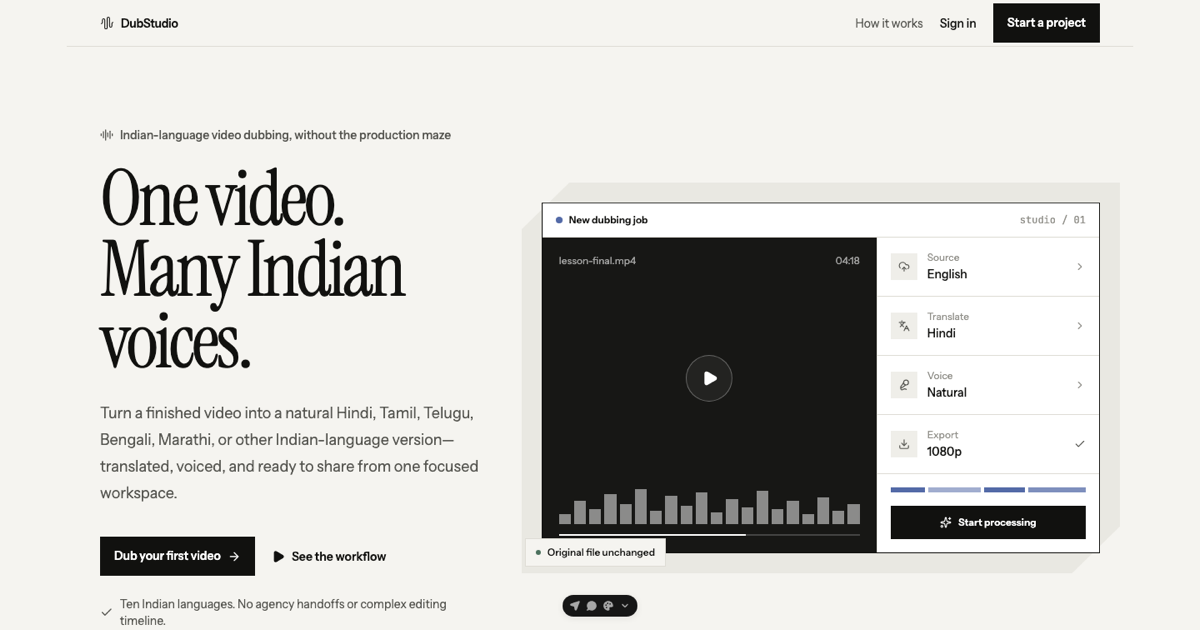
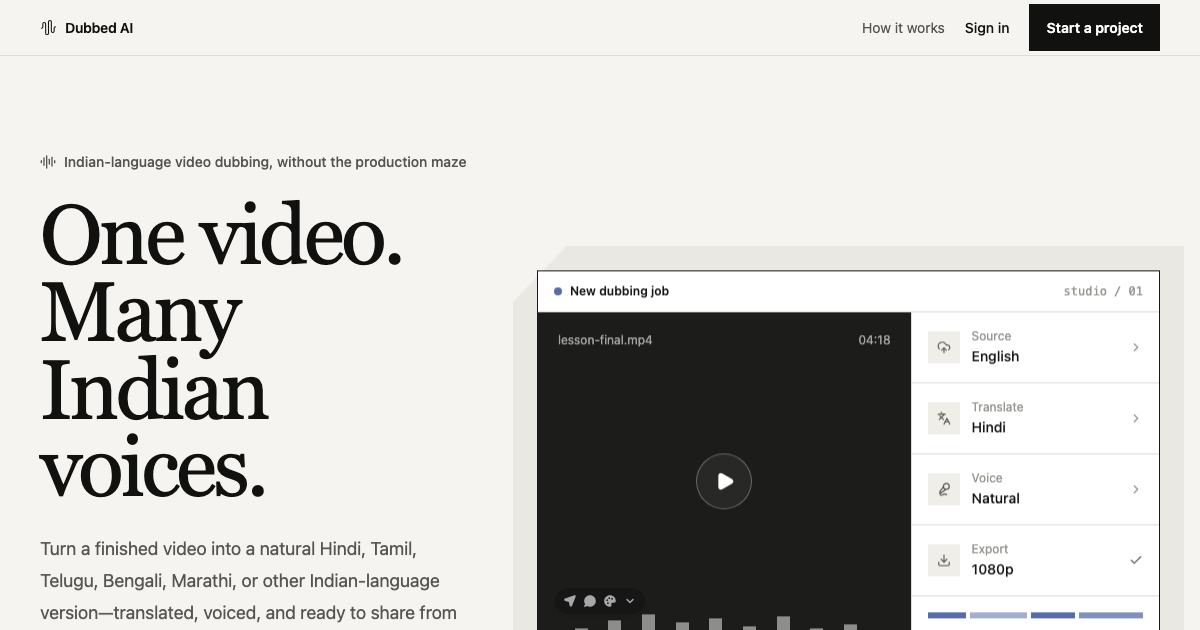
Rename application to Dubbed AI

diff --git a/frontend/src/pages/landing-page.tsx b/frontend/src/pages/landing-page.tsx
@@ -15,6 +15,7 @@ import {
   Users,
 } from "lucide-react";
 import { Link } from "react-router-dom";
+import { APP_NAME } from "@/lib/brand";
 
 const stages = [
   { label: "Source", value: "English", icon: UploadCloud },
@@ -72,12 +73,12 @@ export function LandingPage() {
               <p className="text-sm font-medium text-(--color-accent)">From upload to Indian audiences</p>
               <h2 className="mt-4 max-w-md font-serif text-4xl leading-[1.02] tracking-[-0.03em] sm:text-5xl">Keep the edit. Speak their language.</h2>
             </div>
-            <p className="mt-10 max-w-sm leading-7 text-(--color-text-dim)">DubStudio keeps the workflow linear, so you can prepare an Indian-language version without learning a professional editing suite.</p>
+            <p className="mt-10 max-w-sm leading-7 text-(--color-text-dim)">{APP_NAME} keeps the workflow linear, so you can prepare an Indian-language version without learning a professional editing suite.</p>
           </div>
 
           <ol className="divide-y divide-(--color-border)">
             <ProcessRow number="01" title="Bring the finished cut" copy="Upload the video you already publish. Your original stays untouched." icon={Film} />
-            <ProcessRow number="02" title="Choose an Indian language" copy="Select the source and target languages; DubStudio prepares the translation and voice." icon={Languages} />
+            <ProcessRow number="02" title="Choose an Indian language" copy={`Select the source and target languages; ${APP_NAME} prepares the translation and voice.`} icon={Languages} />
             <ProcessRow number="03" title="Leave with a shareable version" copy="Track processing in the workspace, then download the completed video." icon={Download} />
           </ol>
         </div>
@@ -160,5 +161,5 @@ function AudienceRow({ title, copy, icon: Icon }: { title: string; copy: string;
 }
 
 export function Brand() {
-  return <Link className="flex items-center gap-2 text-(--color-text)" to="/"><span className="brand-mark"><AudioWaveform /></span><span className="text-sm font-semibold tracking-[-0.02em]">DubStudio</span></Link>;
+  return <Link className="flex items-center gap-2 text-(--color-text)" to="/"><span className="brand-mark"><AudioWaveform /></span><span className="text-sm font-semibold tracking-[-0.02em]">{APP_NAME}</span></Link>;
 }

diff --git a/frontend/index.html b/frontend/index.html
@@ -4,15 +4,15 @@
     <meta charset="UTF-8" />
     <link rel="icon" type="image/svg+xml" href="/favicon.svg" />
     <meta name="viewport" content="width=device-width, initial-scale=1.0" />
-    <title>DubStudio — Indian-language video dubbing</title>
+    <title>Dubbed AI — Indian-language video dubbing</title>
     <meta
       name="description"
       content="Turn one finished video into natural Indian-language versions—translated, voiced, and ready to share."
     />
 
     <meta property="og:type" content="website" />
-    <meta property="og:site_name" content="DubStudio" />
-    <meta property="og:title" content="DubStudio — One video. Many Indian voices." />
+    <meta property="og:site_name" content="Dubbed AI" />
+    <meta property="og:title" content="Dubbed AI — One video. Many Indian voices." />
     <meta
       property="og:description"
       content="Turn one finished video into natural Indian-language versions—translated, voiced, and ready to share."
@@ -21,16 +21,16 @@
     <meta property="og:image:type" content="image/png" />
     <meta property="og:image:width" content="1200" />
     <meta property="og:image:height" content="630" />
-    <meta property="og:image:alt" content="DubStudio landing page hero showing its Indian-language video dubbing workflow." />
+    <meta property="og:image:alt" content="Dubbed AI landing page hero showing its Indian-language video dubbing workflow." />
 
     <meta name="twitter:card" content="summary_large_image" />
-    <meta name="twitter:title" content="DubStudio — One video. Many Indian voices." />
+    <meta name="twitter:title" content="Dubbed AI — One video. Many Indian voices." />
     <meta
       name="twitter:description"
       content="Turn one finished video into natural Indian-language versions—translated, voiced, and ready to share."
     />
     <meta name="twitter:image" content="/og-image.png" />
-    <meta name="twitter:image:alt" content="DubStudio landing page hero showing its Indian-language video dubbing workflow." />
+    <meta name="twitter:image:alt" content="Dubbed AI landing page hero showing its Indian-language video dubbing workflow." />
   </head>
   <body>
     <div id="root"></div>

diff --git a/frontend/src/pages/workspace-page.tsx b/frontend/src/pages/workspace-page.tsx
@@ -5,6 +5,7 @@ import { useNavigate } from "react-router-dom";
 import { DubbingForm } from "@/features/dubbing/dubbing-form";
 import { DubbingJobsTable } from "@/features/dubbing/dubbing-jobs-table";
 import { authClient } from "@/lib/auth-client";
+import { APP_NAME } from "@/lib/brand";
 import { Brand } from "./landing-page";
 
 export function WorkspacePage() {
@@ -53,7 +54,7 @@ export function WorkspacePage() {
           <div className="max-w-2xl">
             <p className="text-sm font-medium text-(--color-accent)">Localization studio</p>
             <h1 className="mt-3 font-serif text-4xl leading-[0.98] tracking-[-0.035em] text-balance sm:text-5xl">Prepare your next language version.</h1>
-            <p className="mt-5 max-w-xl leading-7 text-(--color-text-dim)">Bring a finished cut. DubStudio translates, voices, and prepares a shareable version while your original stays untouched.</p>
+            <p className="mt-5 max-w-xl leading-7 text-(--color-text-dim)">Bring a finished cut. {APP_NAME} translates, voices, and prepares a shareable version while your original stays untouched.</p>
           </div>
           <ol className="grid grid-cols-3 divide-x divide-(--color-border) border-y border-(--color-border) py-3">
             <WorkspaceStep number="1" label="Upload" /><WorkspaceStep number="2" label="Choose" /><WorkspaceStep number="3" label="Download" />

diff --git a/frontend/src/router/route-gates.tsx b/frontend/src/router/route-gates.tsx
@@ -2,6 +2,7 @@ import { LoaderCircle } from 'lucide-react'
 import { Navigate } from 'react-router-dom'
 import { useCurrentUser } from '@/features/auth/use-current-user'
 import { authClient } from '@/lib/auth-client'
+import { APP_NAME } from '@/lib/brand'
 import { AdminUsersPage } from '@/pages/admin-users-page'
 import { AuthPage } from '@/pages/auth-page'
 import { PendingPage } from '@/pages/pending-page'
@@ -129,7 +130,7 @@ function RouteLoader({ label }: { label: string }) {
     <main className="flex min-h-screen items-center justify-center bg-(--color-bg) px-5 text-(--color-text)">
       <div className="w-full max-w-sm border-t border-(--color-text) pt-5">
         <div className="flex items-center gap-3 text-sm font-medium"><LoaderCircle className="size-4 animate-spin text-(--color-accent)" />{label}</div>
-        <p className="mt-3 text-sm text-(--color-text-dim)">DubStudio is preparing the next screen.</p>
+        <p className="mt-3 text-sm text-(--color-text-dim)">{APP_NAME} is preparing the next screen.</p>
       </div>
     </main>
   )

diff --git a/frontend/src/pages/admin-login-page.tsx b/frontend/src/pages/admin-login-page.tsx
@@ -2,6 +2,7 @@ import { AudioWaveform, KeyRound, LoaderCircle, Mail, Shield } from 'lucide-reac
 import { type FormEvent, useState } from 'react'
 import { Link, useNavigate } from 'react-router-dom'
 import { useAdminLoginMutation } from '@/features/admin/use-admin-session'
+import { APP_NAME } from '@/lib/brand'
 
 export function AdminLoginPage() {
   const navigate = useNavigate()
@@ -34,7 +35,7 @@ export function AdminLoginPage() {
               <AudioWaveform className="size-5" />
             </span>
             <div>
-              <p className="font-serif text-2xl leading-none">DubStudio</p>
+              <p className="font-serif text-2xl leading-none">{APP_NAME}</p>
               <p className="mt-1 font-mono text-xs text-(--color-text-dim)">admin access</p>
             </div>
           </div>

diff --git a/frontend/src/features/auth/auth-panel.tsx b/frontend/src/features/auth/auth-panel.tsx
@@ -9,6 +9,7 @@ import {
 import { type FormEvent, useReducer } from "react";
 import { Link, useNavigate } from "react-router-dom";
 import { authClient } from "@/lib/auth-client";
+import { APP_NAME } from "@/lib/brand";
 import { Brand } from "@/pages/landing-page";
 
 type AuthMode = "sign-in" | "sign-up";
@@ -16,7 +17,7 @@ type AuthMode = "sign-in" | "sign-up";
 const authCopy = {
   "sign-in": {
     eyebrow: "Private studio",
-    title: "Sign in to DubStudio.",
+    title: `Sign in to ${APP_NAME}.`,
     action: "Sign in",
     alternate: "Create an account",
   },

diff --git a/frontend/src/lib/brand.ts b/frontend/src/lib/brand.ts
@@ -1,0 +1,1 @@
+export const APP_NAME = "Dubbed AI";

diff --git a/frontend/DESIGN.md b/frontend/DESIGN.md
@@ -1,5 +1,5 @@
 ---
-name: DubStudio
+name: Dubbed AI
 description: A calm localization studio for turning finished videos into multilingual versions.
 colors:
   gallery-ground: "#f5f4f0"
@@ -84,13 +84,13 @@ components:
     rounded: "{rounded.square}"
 ---
 
-# Design System: DubStudio
+# Design System: Dubbed AI
 
 ## 1. Overview
 
 **Creative North Star: "The Localization Studio"**
 
-DubStudio feels like a calm, polished studio where finished work is prepared for a new audience. The public experience uses an editorial serif and generous composition to frame the creator's work; authenticated surfaces become denser, quieter, and operational without losing the same material language.
+Dubbed AI feels like a calm, polished studio where finished work is prepared for a new audience. The public experience uses an editorial serif and generous composition to frame the creator's work; authenticated surfaces become denser, quieter, and operational without losing the same material language.
 
 The system is refined and restrained, built from pale neutral work surfaces, strong ink, crisp rules, and a muted translation blue reserved for state and focus. It explicitly rejects generic AI SaaS presentation, intimidating editor complexity, and overly playful consumer styling.
 
@@ -158,7 +158,7 @@ The palette resembles a quiet gallery workspace: neutral enough to foreground vi
 
 ## 4. Elevation
 
-DubStudio is flat by default. Depth comes from canvas-to-surface tonal changes, one-pixel structural lines, and overlays with explicit modal purpose. Shadows are exceptional: dialogs and transient snackbars may lift above the task surface, but ordinary forms, rows, and buttons remain shadowless.
+Dubbed AI is flat by default. Depth comes from canvas-to-surface tonal changes, one-pixel structural lines, and overlays with explicit modal purpose. Shadows are exceptional: dialogs and transient snackbars may lift above the task surface, but ordinary forms, rows, and buttons remain shadowless.
 
 ### Shadow Vocabulary
 
@@ -218,7 +218,7 @@ The signature work surface is a large, calm target rather than a decorative uplo
 
 ### Don't:
 
-- **Don't** make DubStudio resemble a generic AI SaaS template.
+- **Don't** make Dubbed AI resemble a generic AI SaaS template.
 - **Don't** turn the workflow into an intimidating professional editing suite.
 - **Don't** introduce overly playful consumer-app styling.
 - **Don't** add rounded cards, decorative shadows, gradients, or glass effects to make empty space feel designed.

diff --git a/frontend/PRODUCT.md b/frontend/PRODUCT.md
@@ -14,11 +14,11 @@ Independent video creators and educators who have finished video content and wan
 
 ## Product Purpose
 
-DubStudio helps creators reach new-language audiences quickly, produce professional localized videos, and reduce the time and cost of dubbing.
+Dubbed AI helps creators reach new-language audiences quickly, produce professional localized videos, and reduce the time and cost of dubbing.
 
 ## Positioning
 
-DubStudio gives independent creators and educators a simple, affordable way to turn one finished video into professional multilingual versions.
+Dubbed AI gives independent creators and educators a simple, affordable way to turn one finished video into professional multilingual versions.
 
 ## Brand Personality
 
@@ -26,7 +26,7 @@ Capable, clear, and trustworthy.
 
 ## Anti-references
 
-DubStudio should not resemble a generic AI SaaS template, an intimidating professional editing suite, or an overly playful consumer app.
+Dubbed AI should not resemble a generic AI SaaS template, an intimidating professional editing suite, or an overly playful consumer app.
 
 ## Design Principles
 

diff --git a/frontend/AGENT.md b/frontend/AGENT.md
@@ -35,7 +35,7 @@ Use this agent for changes under `frontend/`.
 
 - Preserve the current feature-first structure for contact and dubbing flows.
 - Match backend field names and payload formats exactly, especially multipart `FormData` uploads for dubbing.
-- Keep the captured DubStudio visual direction in `PRODUCT.md` and `DESIGN.md`: a calm localization studio with editorial brand moments, restrained product UI, and creator content taking visual priority.
+- Keep the captured Dubbed AI visual direction in `PRODUCT.md` and `DESIGN.md`: a calm localization studio with editorial brand moments, restrained product UI, and creator content taking visual priority.
 - Prefer extending existing CSS variables and utility usage in `src/index.css` over scattering one-off styles.
 - Keep route additions explicit in `src/router/index.tsx`.
 

diff --git a/README.md b/README.md
@@ -1,6 +1,6 @@
-# DubStudio
+# Dubbed AI
 
-DubStudio is a multilingual video-dubbing platform for independent creators and educators. It turns a finished source video into localized versions while keeping upload, processing progress, and completed downloads in one workspace.
+Dubbed AI is a multilingual video-dubbing platform for independent creators and educators. It turns a finished source video into localized versions while keeping upload, processing progress, and completed downloads in one workspace.
 
 ## How it works
 
